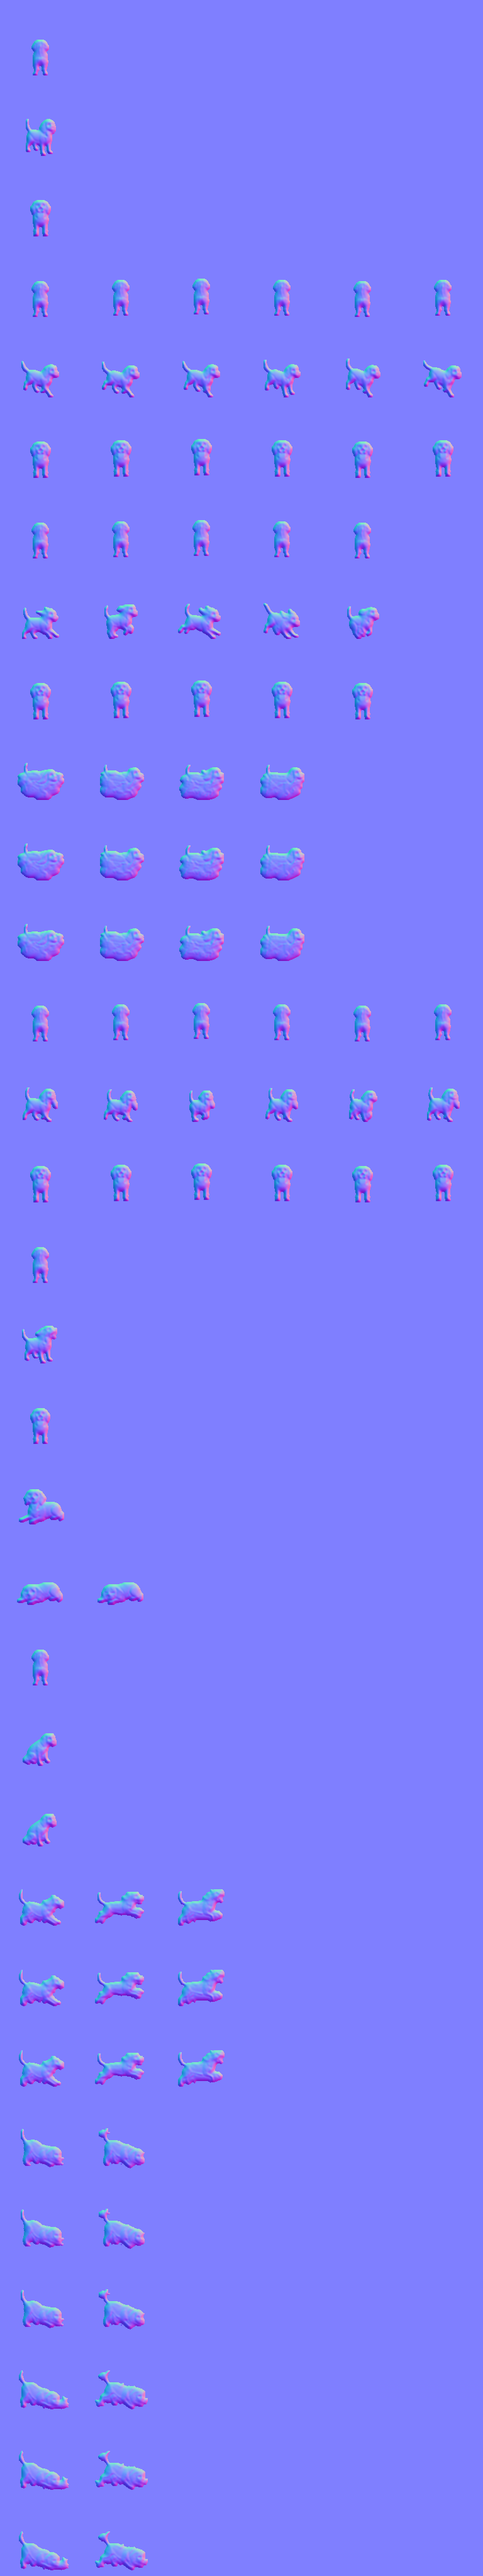
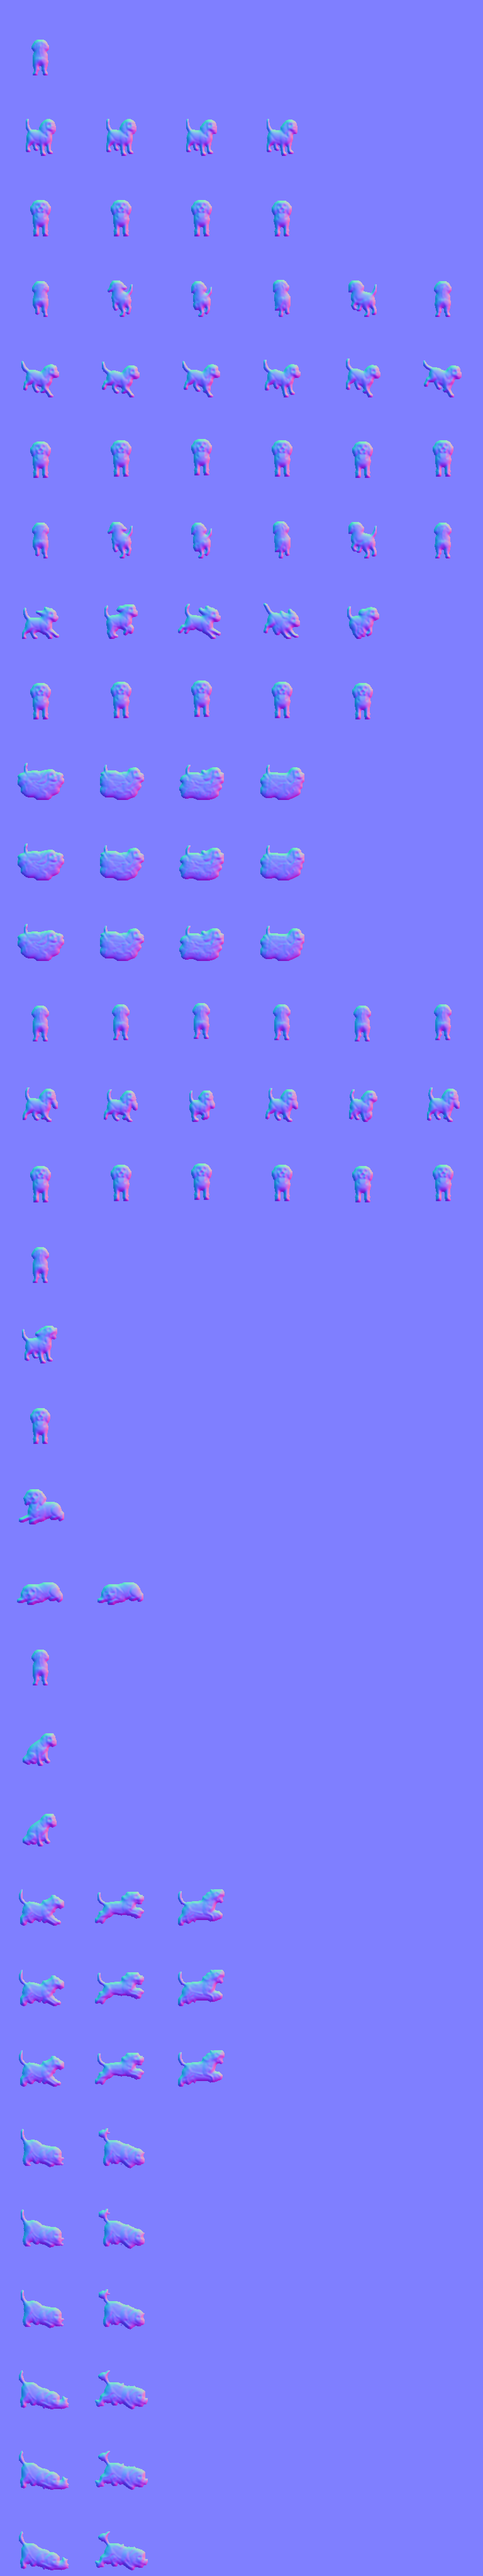
Chad and Evey: combo from behind, idle loops, Evey's trot away
Each hit of Chad's combo now has its own frames when he attacks upward; Chad and Evey breathe,
blink and pant when standing; Evey trots and gallops away from the camera with real frames.

Claude-Session: https://claude.ai/code/session_01NxkNS8Xn8Aik2ZkHhgLkjK

diff --git a/projects/pixel-game/tools/painted_sheets.py b/projects/pixel-game/tools/painted_sheets.py
@@ -61,6 +61,24 @@ REGIONS = {
     "chad_fish_2": ("v5_chad_fish.jpg", 600, 840, 0, 768, True),
     "chad_fish_3": ("v5_chad_fish.jpg", 840, 1105, 0, 768, True),
     "chad_fish_4": ("v5_chad_fish.jpg", 1105, 1376, 0, 768, True),
+    # cutlass combo seen from behind: ready, wind-up, slash, wind-up, backhand, raised,
+    # finisher, recover (blades touch the next figure, so one box each)
+    "chad_combo_up_0": ("v5_chad_combo_up.jpg", 0, 192, 0, 768, True),
+    "chad_combo_up_1": ("v5_chad_combo_up.jpg", 192, 360, 0, 768, True),
+    "chad_combo_up_2": ("v5_chad_combo_up.jpg", 360, 573, 0, 768, True),
+    "chad_combo_up_3": ("v5_chad_combo_up.jpg", 573, 720, 0, 768, True),
+    "chad_combo_up_4": ("v5_chad_combo_up.jpg", 720, 902, 0, 768, True),
+    "chad_combo_up_5": ("v5_chad_combo_up.jpg", 902, 1031, 0, 768, True),
+    "chad_combo_up_6": ("v5_chad_combo_up.jpg", 1031, 1205, 0, 768, True),
+    "chad_combo_up_7": ("v5_chad_combo_up.jpg", 1205, 1376, 0, 768, True),
+    # back idle: back, back, side, back 3/4, back
+    "chad_back_idle": ("v5_chad_back_idle.jpg", 0, 1376, 0, 768, True),
+    # a second model sheet: front, 3/4, side with the eyes closed (a blink), back 3/4, back
+    "chad_model_b": ("v5_chad_model_b.jpg", 0, 1376, 0, 768, True),
+    # idle: front, 3/4, side facing left, 3/4 panting
+    "evey_idle": ("v5_evey_idle.jpg", 0, 1376, 0, 768, True),
+    # 6-frame trot away from the viewer
+    "evey_trot_up": ("v5_evey_trot_up.jpg", 0, 1376, 0, 768, True),
     # 5-frame gallop to the right
     "evey_run": ("v5_evey_run.jpg", 0, 1376, 0, 768, True),
     # front, side, bark, side
@@ -78,7 +96,7 @@ REGIONS = {
     "evey_act": ("sheet_v4.jpg", 0, 1024, 462, 572, True),
 }
 # Rectangles whose figures are cut at its sides (the fishing line joins those figures).
-BOXED = tuple(f"chad_fish_{i}" for i in range(5))
+BOXED = tuple(f"chad_fish_{i}" for i in range(5)) + tuple(f"chad_combo_up_{i}" for i in range(8))
 # The colour of each sheet's painted floor shadows, for telling them from dark clothes.
 SHADOW_TINT = {
     "sheet_v3.jpg": "neutral",
@@ -104,6 +122,18 @@ SCALES = {
     "chad_fish_2": 110 / 597,
     "chad_fish_3": 110 / 597,
     "chad_fish_4": 110 / 597,
+    "chad_combo_up_0": 110 / 259,
+    "chad_combo_up_1": 110 / 259,
+    "chad_combo_up_2": 110 / 259,
+    "chad_combo_up_3": 110 / 259,
+    "chad_combo_up_4": 110 / 259,
+    "chad_combo_up_5": 110 / 259,
+    "chad_combo_up_6": 110 / 259,
+    "chad_combo_up_7": 110 / 259,
+    "chad_back_idle": 110 / 593,
+    "chad_model_b": 110 / 598,
+    "evey_idle": 58 / 318,
+    "evey_trot_up": 58 / 315,
     "evey_run": 58 / 262,
     "evey_bark": 58 / 318,
     "evey_swim": 58 / 262,
@@ -126,22 +156,39 @@ def _frames(group: str, indices) -> list:
     return [(f"{group}:{i}", False) for i in indices]
 
 
+def _combo(indices) -> list:
+    """Frames of the combo seen from behind, cut one box per figure."""
+    return [(f"combo_up_{i}:0", False) for i in indices]
+
+
 # For each animation: rows of frames, (figure, mirrored[, dy]). Rows are keyed up/side/down
 # (drawn facing right, flipped by the game for left) or up/left/down/right, or "all".
 LAYOUTS = {
     "chad": {
+        # Standing still: breathing variations with one blink (played at 2.5 frames a second).
         "idle": {
-            "up": _frames("model", [4]),
-            "side": _frames("model", [2]),
-            "down": _frames("model", [0]),
+            "up": _frames("back_idle", [0, 1, 4, 1, 0, 4]),
+            "side": _frames("model", [2, 2, 2]) + _frames("model_b", [2]) + _frames("model", [2, 2]),
+            "down": _frames("model", [0, 0, 0]) + _frames("model_b", [0]) + _frames("model", [0, 0]),
         },
         "walk": {
             "up": _frames("back", range(8)),
             "side": _frames("walk_a", range(4)) + _frames("walk_b", [0, 1]),
             "down": _frames("walk_a", range(4)) + _frames("walk_b", [0, 1]),
         },
+        # The three hits of the combo (side and front still share the older swing).
         "slash": {
-            "up": _frames("swing", [3, 3]),
+            "up": _combo([1, 2]),
+            "side": _frames("swing", [2, 1]),
+            "down": _frames("swing", [0, 1]),
+        },
+        "slash2": {
+            "up": _combo([3, 4]),
+            "side": _frames("swing", [2, 1]),
+            "down": _frames("swing", [0, 1]),
+        },
+        "slash3": {
+            "up": _combo([5, 6, 7]),
             "side": _frames("swing", [2, 1]),
             "down": _frames("swing", [0, 1]),
         },
@@ -177,16 +224,16 @@ LAYOUTS = {
     "evey": {
         "idle": {
             "up": _frames("model", [4]),
-            "side": _frames("model", [1]),
-            "down": _frames("model", [0]),
+            "side": _frames("model", [1, 1]) + _frames("idle", [3, 3]),
+            "down": _frames("model", [0, 0, 0]) + _frames("idle", [0]),
         },
         "walk": {
-            "up": _bob("model:4", 6),
+            "up": _frames("trot_up", range(6)),
             "side": _frames("trot_a", range(4)) + _frames("trot_b", [0, 1]),
             "down": _bob("model:0", 6),
         },
         "run": {
-            "up": _bob("model:4", 5),
+            "up": _frames("trot_up", range(6)),
             "side": _frames("run", range(5)),
             "down": _bob("model:0", 5),
         },

diff --git a/projects/pixel-game/docs/15-character-art-prompts.md b/projects/pixel-game/docs/15-character-art-prompts.md
@@ -17,8 +17,11 @@ into smooth in-game animation.
 - Evey: model sheet, a 6-frame trot, a **5-frame gallop**, sit, a **4-frame swim** (in water),
   a **bark** (when sicced and standing), **lying down** (left alone 8 s, or a long Stay) and
   **sleeping** (16 s), and a 6-frame walk **carrying a slipper** (in the sheet, not used yet).
-- Still from the older sheets: Chad's cutlass swing (`sheet_v3.jpg`) and Evey's sniff, dig and
-  bite (`sheet_v4.jpg`).
+- Batch 3: Chad's **cutlass combo seen from behind** (each of the three hits has its own
+  frames when he attacks upward), **idle loops** for both (breathing, Chad blinks, Evey pants),
+  and Evey's **trot away** from the camera.
+- Still from the older sheets: Chad's cutlass swing to the side and toward the camera
+  (`sheet_v3.jpg`) and Evey's sniff, dig and bite (`sheet_v4.jpg`).
 
 **How the game plays them** (for smooth motion): every sheet is drawn facing **right**, with
 rows for up, side and down; the game mirrors it for left and remembers the last sideways

diff --git a/projects/pixel-game/docs/17-remaining-animation-prompts.md b/projects/pixel-game/docs/17-remaining-animation-prompts.md
@@ -22,6 +22,12 @@ The new prompts already ask for these; if a result still has one, regenerate rat
 - **Painted floor shadows**: the tool can soften them, but a clean sheet cuts better.
 - **Dust, swooshes, dirt**: the game draws its own effects, so leave them out.
 
+## Done so far
+
+- Chad: cutlass combo away from the viewer (§3), idle back (§9). A second model sheet with a
+  blink gives him front and side idles for now.
+- Evey: trot away from the viewer (§2), idle side and front (§5, §6).
+
 ## Most needed first
 
 1. Chad's **cutlass combo**, side, then toward and away. The swing is the last old-style art you
